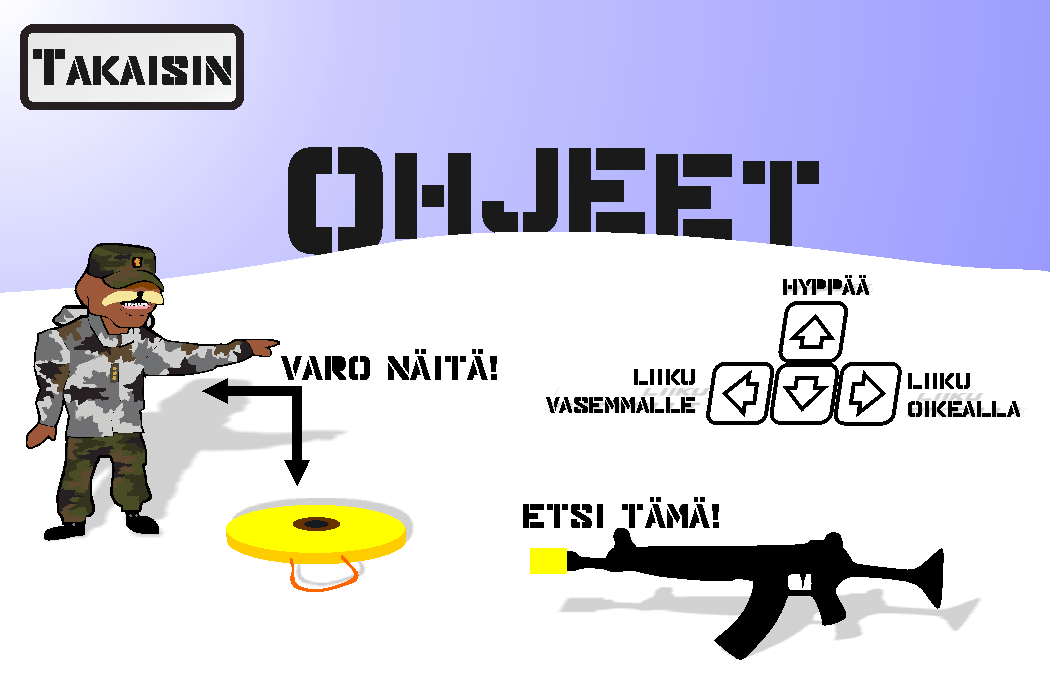
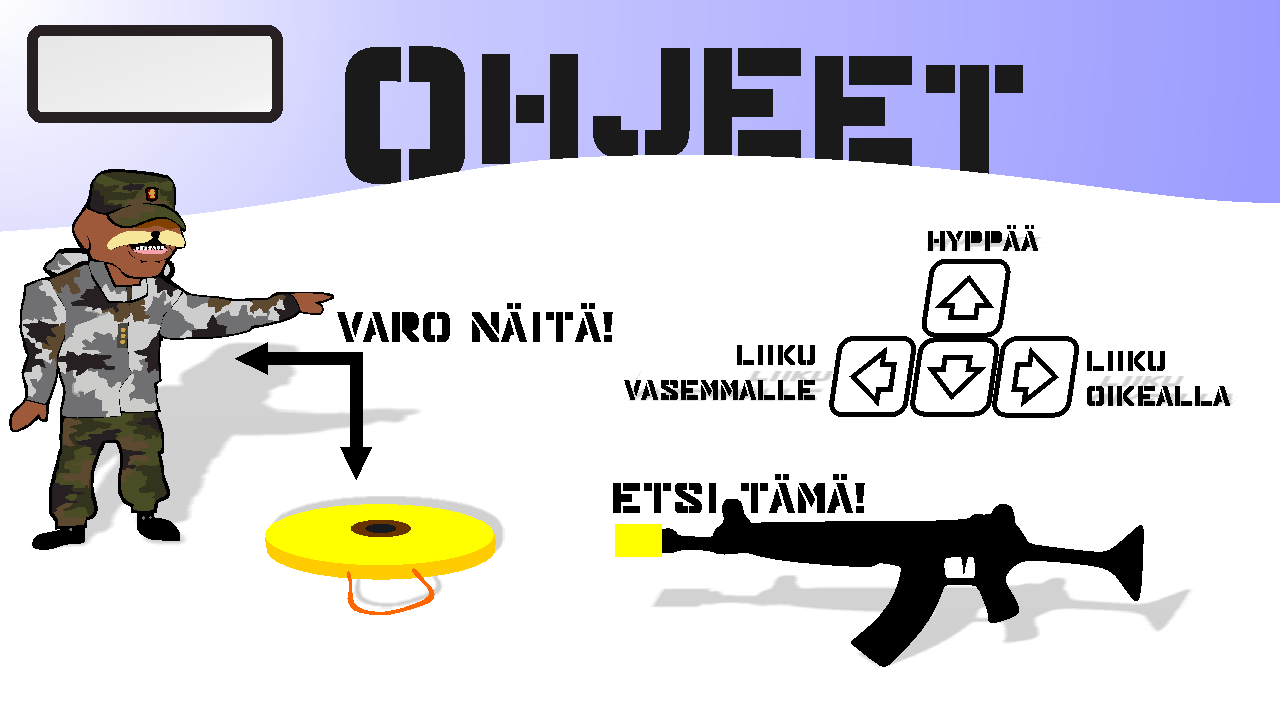
Lisätty näyttöjä

diff --git a/mage/Voitit.xaml b/mage/Voitit.xaml
@@ -8,11 +8,15 @@
     mc:Ignorable="d">
 
     <Grid Background="{ThemeResource ApplicationPageBackgroundThemeBrush}">
-        <Image x:Name="image_voitit" Source="Assets/voitit_tausta.png" HorizontalAlignment="Left" Height="720"  VerticalAlignment="Top" Width="1280"/>
-        <TextBlock x:Name="textBlock" HorizontalAlignment="Left" TextWrapping="Wrap" VerticalAlignment="Top" Margin="532,224,0,0" Height="128" Width="221" TextAlignment="Center">
-            <Run FontSize="36" Text="Hienoa! Voitit pelin!"/>
+        <Image x:Name="image_voitit" Source="Assets/voitit_tausta.png" HorizontalAlignment="Left" Height="720"  VerticalAlignment="Top" Width="1280" RenderTransformOrigin="0.501,0.501"/>
+        <TextBlock x:Name="textBlock" HorizontalAlignment="Left" TextWrapping="Wrap" VerticalAlignment="Top" Margin="400,190,0,0" Height="317" Width="465" TextAlignment="Center">
+            <Run FontSize="36" Text="Hienoa Mage!!1!:DD"/>
             <LineBreak/>
-            <Run Text=""/>
+            <Run FontSize="36" Text="Voidid pelin. "/>
+            <Run FontSize="36" Text="S"/>
+            <Run FontSize="36" Text="aid"/>
+            <Run FontSize="36" Text=" rynggysi dakaisin ajoidda ennen kuin gugaan huomasi middään :Dd Nyt void rauhadda hajoda aamuihisi"/>
+            <Run FontSize="36" Text="!!!"/>
         </TextBlock>
         <Button x:Name="Valikkoon"  Content="Valikkoon" HorizontalAlignment="Left" Margin="72,52,0,0" VerticalAlignment="Top" Height="84" Width="233"
             Click="Valikkoon_Click"/>

diff --git a/mage/Etusivu.xaml b/mage/Etusivu.xaml
@@ -8,14 +8,14 @@
     mc:Ignorable="d">
 
     <Grid Background="{ThemeResource ApplicationPageBackgroundThemeBrush}">
-        <Image x:Name="image_etusivu" Source="Assets/etusivu.png" HorizontalAlignment="Left" Height="720" Margin="88,0,-88,0" VerticalAlignment="Top" Width="1280"/>
+        <Image x:Name="image_etusivu" Source="Assets/etusivu.png" HorizontalAlignment="Left" Height="720" VerticalAlignment="Top" Width="1280"/>
         <Button x:Name="AloitaButton" Content="" HorizontalAlignment="Center" VerticalAlignment="Center" FontSize="100" FontWeight="Black"
-                Click="AloitaButton_Click" Margin="444.4,350,426.556,227" Height="143" Width="409.044" RenderTransformOrigin="0.513,-0.172" UseLayoutRounding="False" d:LayoutRounding="Auto">
+                Click="AloitaButton_Click" Margin="445.069,297.75,442.072,285.5" Height="136.75" Width="392.859" RenderTransformOrigin="0.513,-0.172" UseLayoutRounding="False" d:LayoutRounding="Auto">
             <Button.RenderTransform>
                 <CompositeTransform SkewX="-0.413" TranslateX="0.256"/>
             </Button.RenderTransform>
         </Button>
         <Button x:Name="OhjeetButton" Content="" HorizontalAlignment="Center" VerticalAlignment="Center" FontSize="100" FontWeight="Black"
-Click="OhjeetButton_Click" Margin="506,539,496,86" Height="95" Width="278"/>
+Click="OhjeetButton_Click" Margin="495,554,491,82" Height="84" Width="294"/>
     </Grid>
 </Page>

diff --git a/mage/Havisit_tellu.xaml b/mage/Havisit_tellu.xaml
@@ -1,0 +1,18 @@
+<Page
+    x:Class="mage.Havisit_tellu"
+    xmlns="http://schemas.microsoft.com/winfx/2006/xaml/presentation"
+    xmlns:x="http://schemas.microsoft.com/winfx/2006/xaml"
+    xmlns:local="using:mage"
+    xmlns:d="http://schemas.microsoft.com/expression/blend/2008"
+    xmlns:mc="http://schemas.openxmlformats.org/markup-compatibility/2006"
+    mc:Ignorable="d">
+
+    <Grid Background="{ThemeResource ApplicationPageBackgroundThemeBrush}">
+      
+        <Image x:Name="image_havisit_tellu" Source="Assets/havisit_tellu.png" HorizontalAlignment="Left" Height="720"  VerticalAlignment="Top" Width="1280"/>
+        <Button x:Name="alkuun"  Content="Yritä uudestaan" HorizontalAlignment="Left" Margin="980,52,0,0" VerticalAlignment="Top" Height="84" Width="233"
+        Click="alkuun_Click"/>
+        <Button x:Name="Valikkoon"  Content="Valikkoon" HorizontalAlignment="Left" Margin="72,52,0,0" VerticalAlignment="Top" Height="84" Width="233"
+            Click="Valikkoon_Click" />
+    </Grid>
+</Page>

diff --git a/mage/Ohjeet.xaml b/mage/Ohjeet.xaml
@@ -8,8 +8,8 @@
     mc:Ignorable="d">
 
     <Grid Background="{ThemeResource ApplicationPageBackgroundThemeBrush}">
-        <Image x:Name="image_ohjeet" Source="Assets/ohjeet.png" HorizontalAlignment="Left" Height="720" Margin="72,0,0,0" VerticalAlignment="Top" Width="1280"/>
-        <Button x:Name="button"  Content="" HorizontalAlignment="Left" Margin="96,27,0,0" VerticalAlignment="Top" Height="84" Width="233"
+        <Image x:Name="image_ohjeet" Source="Assets/ohjeet.png" HorizontalAlignment="Left" Height="720" VerticalAlignment="Top" Width="1280"/>
+        <Button x:Name="button"  Content="Takaisin" HorizontalAlignment="Left" Margin="36,34,0,0" VerticalAlignment="Top" Height="79" Width="238"
         Click="button_Click"/>
     </Grid>
 </Page>

diff --git a/mage/MainPage.xaml.cs b/mage/MainPage.xaml.cs
@@ -28,29 +28,28 @@ namespace mage
     {
         // Luodaan magehahmo
         private Magehahmo magehahmo;
-        // Luodaan tellut
+        // Luodaan Listat joihin oliot laitetaan
         private List<Tellu> tellut;
         private List<Maata> maat;
         private List<Maapala> maapalat;
         private List<Skappari> skapparit;
         private List<Isomaapala> isotpalat;
         private List<Auto> autot;
-        //Luodaan Rynkky
         private List<Rynkky> rynkyt;
 
 
-        // Tutkitaan mitkä näppäimet ovat painettuina tai päästettyinä
+        // Laitetaan muuttujiin mitkä näppäimet ovat painettuina tai päästettyinä
         private bool UpPressed;
         private bool LeftPressed;
         private bool RightPressed;
 
-        // Luodaan ajastin timeri
+        // Luodaan ajastin
         private DispatcherTimer timer;
 
         //Ääni
         private MediaElement mediaElement;
         private MediaElement mediaElement2;
-        private MediaElement mediaElement3;
+        private MediaElement mediaElement3; // Taustamusiikki
 
         public MainPage()
         {
@@ -67,7 +66,7 @@ namespace mage
             {
                 LocationX = 0,     // Määritetään magehahmon aloitussijainti
                 LocationY = 520,
-                Jumping = false
+                Jumping = false                
             };
             // MAAT LISTA
             maat = new List<Maata>();
@@ -194,14 +193,12 @@ namespace mage
             MyCanvas.Children.Add(auto1);
             //SKAPPARIT
             MyCanvas.Children.Add(skappari1);
-            
             //RYNKKY
             MyCanvas.Children.Add(rynkky1);
             //ISOT PALAT
             MyCanvas.Children.Add(isopala1);
             MyCanvas.Children.Add(isopala2);
             MyCanvas.Children.Add(isopala3);
-
 
             // Key Listeners,   näppäimien kuuntelua, onko jokin painettuna vai ei?
             Window.Current.CoreWindow.KeyDown += CoreWindow_KeyDown;  // Onko näppäimi alhaalla
@@ -216,7 +213,6 @@ namespace mage
             timer.Interval = new TimeSpan(0, 0, 0, 0, 1000 / 60);
             timer.Tick += Timer_Tick;
             timer.Start();
-
         }
         //ladataan audio taustamusiikiksi
         private async void LoadAudio3()
@@ -330,7 +326,7 @@ namespace mage
                 Rect FRect = new Rect(                                               // Tellun sijainti ja koko
                     tellu.LocationX, tellu.LocationY, tellu.ActualWidth, tellu.ActualHeight
                     );
-                // Does objects intersects, törmääkö objektit
+                // Törmääkö objektit
                 BRect.Intersect(FRect);
                 if (!BRect.IsEmpty) // Jos palautettu arvo EI OLE TYHJÄ
                 {
@@ -341,31 +337,26 @@ namespace mage
                     tellut.Remove(tellu);
                     mediaElement.Play();
                     mediaElement3.Pause();
-                 //   Frame.Navigate(typeof(HavisitTellu));  // Kun Telluun osutaan, siirrytään "Havisit"-sivulle
+                    timer.Stop();
+                    Frame.Navigate(typeof(Havisit_tellu));  // Kun Telluun osutaan, siirrytään "Havisit"-sivulle                    
                     break;
                 }
             }
             // Käydään läpi MAAT-lista
             foreach (Maata maa in maat)
             {
-                // Get Rects, katsotaan osuuko mikään tellulistan telluista magehahmoon
+                // Get Rects, katsotaan osuuko mikään magehahmoon
                 Rect BRect = new Rect(                                               // magehahmon sijainti ja koko
                     magehahmo.LocationX, magehahmo.LocationY, magehahmo.ActualWidth, magehahmo.ActualHeight
                     );
-                Rect FRect = new Rect(                                               // Tellun sijainti ja koko
+                Rect FRect = new Rect(                                               // Maan sijainti ja koko
                     maa.LocationX, maa.LocationY, maa.ActualWidth, maa.ActualHeight
                     );
                 // Törmääkö objektit
                 BRect.Intersect(FRect);
                 if (!BRect.IsEmpty) // Jos palautettu arvo EI OLE TYHJÄ
                 {
-                    magehahmo.Jumping = false;
-                    // Collision! Area isn't empty, törmäys - alue ei ole tyhjä
-                    // Poistetaan tellu Canvakselta
-                    // magehahmo.LocationY = maa.LocationY;
-                    // MyCanvas.Children.Remove(maa);
-                    // Poistetaan myös listasta maa
-                    // maat.Remove(maa);
+                    magehahmo.Jumping = false;                    
                     break;
                 }
                 else
@@ -389,12 +380,10 @@ namespace mage
                 BRect.Intersect(FRect);
                 if (!BRect.IsEmpty) // Jos palautettu arvo EI OLE TYHJÄ
                 {
-                    // Collision! Area isn't empty, törmäys - alue ei ole tyhjä
-                    magehahmo.Jumping = false;
+                    // Collision! Alue ei ole tyhjä
+                    magehahmo.Jumping = false; 
                     Debug.WriteLine(BRect);
                     magehahmo.LocationY = 720 - mpala.Height - magehahmo.Height - 50;
-                   // magehahmo.LocationY = BRect.Y - magehahmo.Height + 20;
-                    //magehahmo.LocationX = BRect.X;
                     magehahmo.SetLocation();
                     // maapalat.Remove(mpala);
                     magehahmo.Jumping = false;
@@ -447,6 +436,7 @@ namespace mage
                     skapparit.Remove(skappari);
                     mediaElement2.Play();
                     mediaElement3.Pause();
+                    timer.Stop();
                     Frame.Navigate(typeof(Havisit));  // Kun Telluun osutaan, siirrytään "Havisit"-sivulle
                     break;
                 }
@@ -496,6 +486,7 @@ namespace mage
                     // Poistetaan myös listasta tellu
                     rynkyt.Remove(rynkky);
                     mediaElement3.Pause();
+                    timer.Stop();
                     Frame.Navigate(typeof(Voitit));  // Kun Rynkkyyn osutaan, siirrytään "Voitit"-sivulle
                     break;
                 }

diff --git a/mage/Havisit_tellu.xaml.cs b/mage/Havisit_tellu.xaml.cs
@@ -1,0 +1,45 @@
+using System;
+using System.Collections.Generic;
+using System.IO;
+using System.Linq;
+using System.Runtime.InteropServices.WindowsRuntime;
+using Windows.Foundation;
+using Windows.Foundation.Collections;
+using Windows.UI.Xaml;
+using Windows.UI.Xaml.Controls;
+using Windows.UI.Xaml.Controls.Primitives;
+using Windows.UI.Xaml.Data;
+using Windows.UI.Xaml.Input;
+using Windows.UI.Xaml.Media;
+using Windows.UI.Xaml.Navigation;
+
+// The Blank Page item template is documented at https://go.microsoft.com/fwlink/?LinkId=234238
+
+namespace mage
+{
+    /// <summary>
+    /// An empty page that can be used on its own or navigated to within a Frame.
+    /// </summary>
+    public sealed partial class Havisit_tellu : Page
+    {
+        public Havisit_tellu()
+        {
+            this.InitializeComponent();
+        }
+
+        private void Valikkoon_Click(object sender, RoutedEventArgs e)
+        {
+            Frame.Navigate(typeof(Etusivu));
+        }
+
+        private void alkuun_Click(object sender, RoutedEventArgs e)
+        {
+            Frame rootFrame = Window.Current.Content as Frame;
+            if (rootFrame == null) return;
+            if (rootFrame.CanGoBack)
+            {
+                rootFrame.GoBack();
+            }
+        }
+    }
+}
